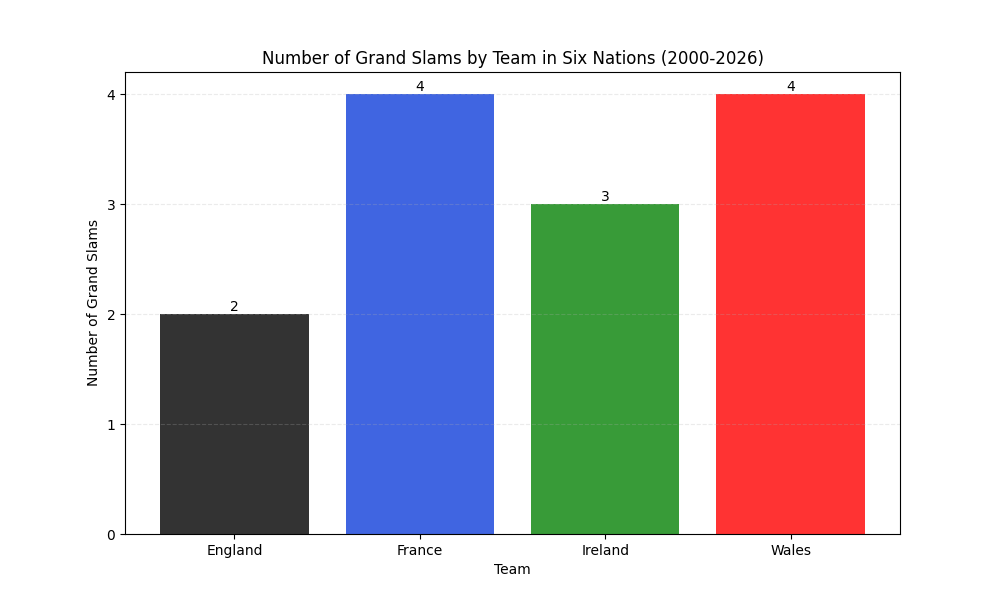
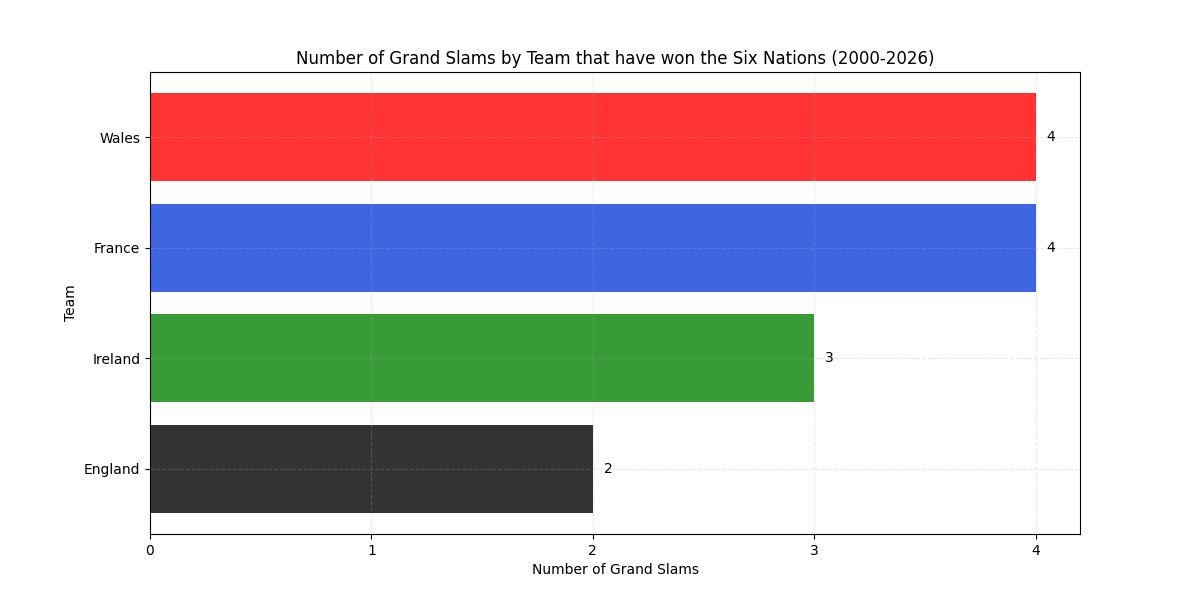
updates python code with more functions and adds title to the regression table

diff --git a/source/data_analysis_coding.py b/source/data_analysis_coding.py
@@ -89,6 +89,9 @@ def save_gif(anim, name, fps=2):
     path = FIG + name
     anim.save(path, writer="pillow", fps=fps)
 
+def figure_size_for_plots():
+    return (12, 6)
+
 def create_scatter_plot(x, y, ax, team):
             ax.scatter(x, y, color=TEAM_COLOURS[team], s=60, alpha=0.8, edgecolors="white", linewidth=0.5, label=team)
 
@@ -101,8 +104,11 @@ def fit_line_for_scatter_plot(x, y, ax):
 def legend_location(ax):
     ax.legend(loc='upper left', fontsize=9, frameon=False, bbox_to_anchor=(1.01, 1))
 
+def create_line_plot(x, y, ax, team):
+    ax.plot(x, y, marker='o', color=TEAM_COLOURS[team], label=team, linewidth=1.8, alpha=0.8)
 
-
+def line_plot_annotation(name, x, y, ax, team):
+                ax.annotate(name, xy=(x,y), xytext=(4, 0), textcoords="offset points", fontsize=7, color=TEAM_COLOURS[team], va="center")
 
 #------------------------------------------------------------------------------
 #--- (1) Data Loading and Cleaning
@@ -190,7 +196,7 @@ explore_dataframe(six_nations_df_clean)
 def plot_historical_positions(six_nations_df):
     frames = make_frames(six_nations_df["year"].unique(), pause_end=12)
 
-    fig, ax = plt.subplots(figsize=(12, 6)) # creating a figure and axis for the plot
+    fig, ax = plt.subplots(figsize=figure_size_for_plots()) # creating a figure and axis for the plot
 
     def animate(year):# animate function for animation, takes in the current frame (year) and updates the plot accordingly
         ax.clear() # clear the plot to redraw it
@@ -198,14 +204,10 @@ def plot_historical_positions(six_nations_df):
         # filter the dataframe to include only data up to the current frame as it cycles through the years
 
         for team, grp in six_nations_df_frame.groupby('team'): # group the filtered dataframe by team to plot each team's data separately
-            ax.plot(grp['year'], grp['final_position'],
-                    marker='o', color=TEAM_COLOURS[team], label=team, linewidth=1.8, alpha=0.8)
+            create_line_plot(grp['year'], grp['final_position'], ax, team)
             
             last = grp[grp["year"] == grp["year"].max()].iloc[-1]
-            ax.annotate(team,
-                        xy=(last["year"], last["final_position"]),
-                        xytext=(4, 0), textcoords="offset points",
-                        fontsize=7, color=TEAM_COLOURS[team], va="center")
+            line_plot_annotation(team, last["year"], last["final_position"], ax, team)
             # adding annotations to the plot to label each team's line with the team name at the last data point for that team in the current year (frame). 
              
         if year >= 2020:
@@ -247,20 +249,22 @@ def plot_grand_slams(six_nations_df):
     grand_slams = six_nations_df[six_nations_df["matches_won"] == 5].groupby("team").size().reset_index(name="grand_slams")
     # filtering the dataframe to include only grand slam rows and grouping the data by team and counting the number of grand slams for each team. The result is stored to a new dataframe
 
-    plt.figure(figsize=(10, 6)) # creating a figure for the plot 
+    grand_slams = grand_slams.sort_values(by="grand_slams", ascending=True)
 
-    bars = plt.bar(grand_slams["team"], grand_slams["grand_slams"], color=[TEAM_COLOURS_for_GS[team] for team in grand_slams["team"]], alpha=0.8) 
+    plt.figure(figsize=figure_size_for_plots()) # creating a figure for the plot 
+
+    bars = plt.barh(grand_slams["team"], grand_slams["grand_slams"], color=[TEAM_COLOURS_for_GS[team] for team in grand_slams["team"]], alpha=0.8) 
     # creating the bar chart, where the bars are colored according to the predefined team colors.
 
-    plt.xlabel("Team") # setting the x-axis label
-    plt.ylabel("Number of Grand Slams") # setting the y-axis label
-    plt.title("Number of Grand Slams by Team in Six Nations (2000-2026)") # setting the title of the plot
-    plt.yticks(range(0, grand_slams["grand_slams"].max() + 1, 1)) # setting the y-axis ticks
-    plt.grid(axis="y", linestyle="--", alpha=0.25) # adding a grid to the y-axis for better readability
+    plt.xlabel("Number of Grand Slams") # setting the x-axis label
+    plt.ylabel("Team") # setting the y-axis label
+    plt.title("Number of Grand Slams by Team that have won the Six Nations (2000-2026)") # setting the title of the plot
+    plt.xticks(range(0, grand_slams["grand_slams"].max() + 1, 1)) # setting the y-axis ticks
+    plt.grid(linestyle="--", alpha=0.25) # adding a grid 
 
     for bar in bars: # adding text labels on top of each bar to show the exact number of grand slams for each team
-        height = bar.get_height()
-        plt.text(bar.get_x() + bar.get_width() / 2, height, str(int(height)), ha='center', va='bottom')
+        width = bar.get_width()
+        plt.text(width + 0.05, bar.get_y() + bar.get_height() / 2, str(int(width)), va='center')
 
     plt.savefig(FIG + "grand_slams.png") # saving the plot as a PNG file 
 
@@ -274,7 +278,7 @@ six_nations_df_2020_onwards = six_nations_df[six_nations_df["year"]>=2020]
 def plot_kicks_in_play(six_nations_df_2020_onwards):
     frames = make_frames(six_nations_df_2020_onwards["year"].unique(), pause_end=15) # extracting unique years from 2020 onwards to use as frames for the animation, and extending the list of frames by repeating the last year multiple times to allow the final year (frame) to be displayed longer in the animation.
 
-    fig, (ax1, ax2) = plt.subplots(1, 2, figsize=(12, 6)) # creating a figure and axis for the plot
+    fig, (ax1, ax2) = plt.subplots(1, 2, figsize=figure_size_for_plots()) # creating a figure and axis for the plot
     fig.subplots_adjust(wspace=0.6)
 
     def animate(year):
@@ -283,17 +287,14 @@ def plot_kicks_in_play(six_nations_df_2020_onwards):
         six_nations_df_frame = six_nations_df_2020_onwards[six_nations_df_2020_onwards['year'] <= year]    
         # filter the dataframe to include only data up to the current frame as it cycles through the years
 
-        for team, grp in six_nations_df_frame.groupby('team'): 
-            ax1.plot(grp['year'], grp['avg_kicks_in_play'],
-                    marker='o', color=TEAM_COLOURS[team], label=team, linewidth=1.8, alpha=0.8)
+        for team, grp in six_nations_df_frame.groupby('team'):
+            create_line_plot(grp['year'], grp['avg_kicks_in_play'], ax1, team) 
             
             create_scatter_plot(grp['avg_kicks_in_play'], grp['final_position'], ax2, team)
             
             last = grp[grp["year"] == grp["year"].max()].iloc[-1]
-            ax1.annotate(team,
-                        xy=(last["year"], last["avg_kicks_in_play"]),
-                        xytext=(4, 0), textcoords="offset points",
-                        fontsize=7, color=TEAM_COLOURS[team], va="center")
+            
+            line_plot_annotation(team, last["year"], last["avg_kicks_in_play"], ax1, team)
             # adding annotations to the plot to label each team's line with the team name at the last data point for that team in the current year (frame). 
 
         # Tournament-average overlay
@@ -350,7 +351,6 @@ plot_kicks_in_play(six_nations_df_2020_onwards) # calling the function to create
 #------------------------------------------------------------------------------
 #--- (5) Logit Regression to explore which features are important in winning the Six Nations and achieving a higher final position 
 #------------------------------------------------------------------------------
-# add in high kicking kicks in play as a treatment variable, (final position and kicks in play interaction term) and then explore the heterogeneity of the treatment effect across different teams since 2020 to see if the importance of kicking in play has changed over time with the introduction of advanced stats and changes in the points scoring system.
 
 
 six_nations_regression_df = six_nations_df.copy() # creating a copy of the cleaned dataframe to use for regression analysis
@@ -428,9 +428,8 @@ pystout(models= [model_ordered],
                    'avg_kicks_in_play':'Average Kicks In Play per Game',
                    'avg_kick_metres_per_game':'Average Kick Metres per Game',
                    'avg_dominant_tackle_contact_per_game':'Average Dominant Tackle Contact per Game',
-                   'avg_turnovers_won_per_game':'Average Turnovers Won per Game'},
-        mgroups={'Baseline':1}, 
-        modstat={'nobs':'Obs'},
+                   'avg_turnovers_won_per_game':'Average Turnovers Won per Game'}, 
+        modstat={'nobs':'Obs', 'aic': 'AIC', 'bic':'BIC'},
         stars =  {.1:'*',.05:'**',.01:'***'})
 
 # Read the pystout-generated .tex fragment
@@ -442,7 +441,7 @@ wrapped_tex = r"""
 \documentclass{article}
 \usepackage{booktabs}
 \usepackage{geometry}
-\geometry{margin=0.5in, landscape}
+\geometry{margin=0.5in, landscape, paperwidth=20in, paperheight=15in}
 \usepackage{caption}
 \usepackage{adjustbox}
 
@@ -450,6 +449,7 @@ wrapped_tex = r"""
 \pagestyle{empty}
 \thispagestyle{empty}
 
+\noindent{\large\textbf{Logit Regression Results}}\\[0.5em]
 \begin{adjustbox}{max width=\textwidth, max totalheight=\textheight, keepaspectratio}
 """ + table_content + r"""
 \end{adjustbox}
@@ -510,7 +510,7 @@ for ext in ['*.aux', '*.log', '*.pdf', '*.tex']:
 def scatter_plot_pcm_vs_tsp(six_nations_df_2020_onwards):
     frames = make_frames(six_nations_df_2020_onwards["year"].unique(), pause_end=15) # extracting unique years from 2020 onwards to use as frames for the animation, and extending the list of frames by repeating the last year multiple times to allow the final year (frame) to be displayed longer in the animation.
 
-    fig, (ax1, ax2) = plt.subplots(1, 2, figsize=(12, 6)) # creating a figure and axis for the plot
+    fig, (ax1, ax2) = plt.subplots(1, 2, figsize=figure_size_for_plots()) # creating a figure and axis for the plot
     fig.subplots_adjust(wspace=0.6)
 
     def animate(year):
@@ -561,20 +561,3 @@ def scatter_plot_pcm_vs_tsp(six_nations_df_2020_onwards):
     save_gif(ani, "attackingPCM_vs_defensiveTSP_scatter.gif", fps=2)
     
 scatter_plot_pcm_vs_tsp(six_nations_df_2020_onwards) # calling the function to create and save the dual panel line graph and scatter plot of average kicks in play per game and their relationship with final position in the Six Nations tournament.
-
-
-#------------------------------------------------------------------------------
-#--- (8) Estimate causal forest
-#------------------------------------------------------------------------------
-
-#         Treatment: kick_metres_per_kick (continuous)
-#         Outcome:   final_position (lower = better finish)
-#         Covariates: all remaining numeric stats
-#         Heterogeneity explored across: team, year
-
-
-
-#------------------------------------------------------------------------------
-#--- (9) Visualise causal forest results (CATEs)
-#the figure below shows the animated casual average treatment effects of the key performance metrics identified in the regression analysis on …
-#------------------------------------------------------------------------------